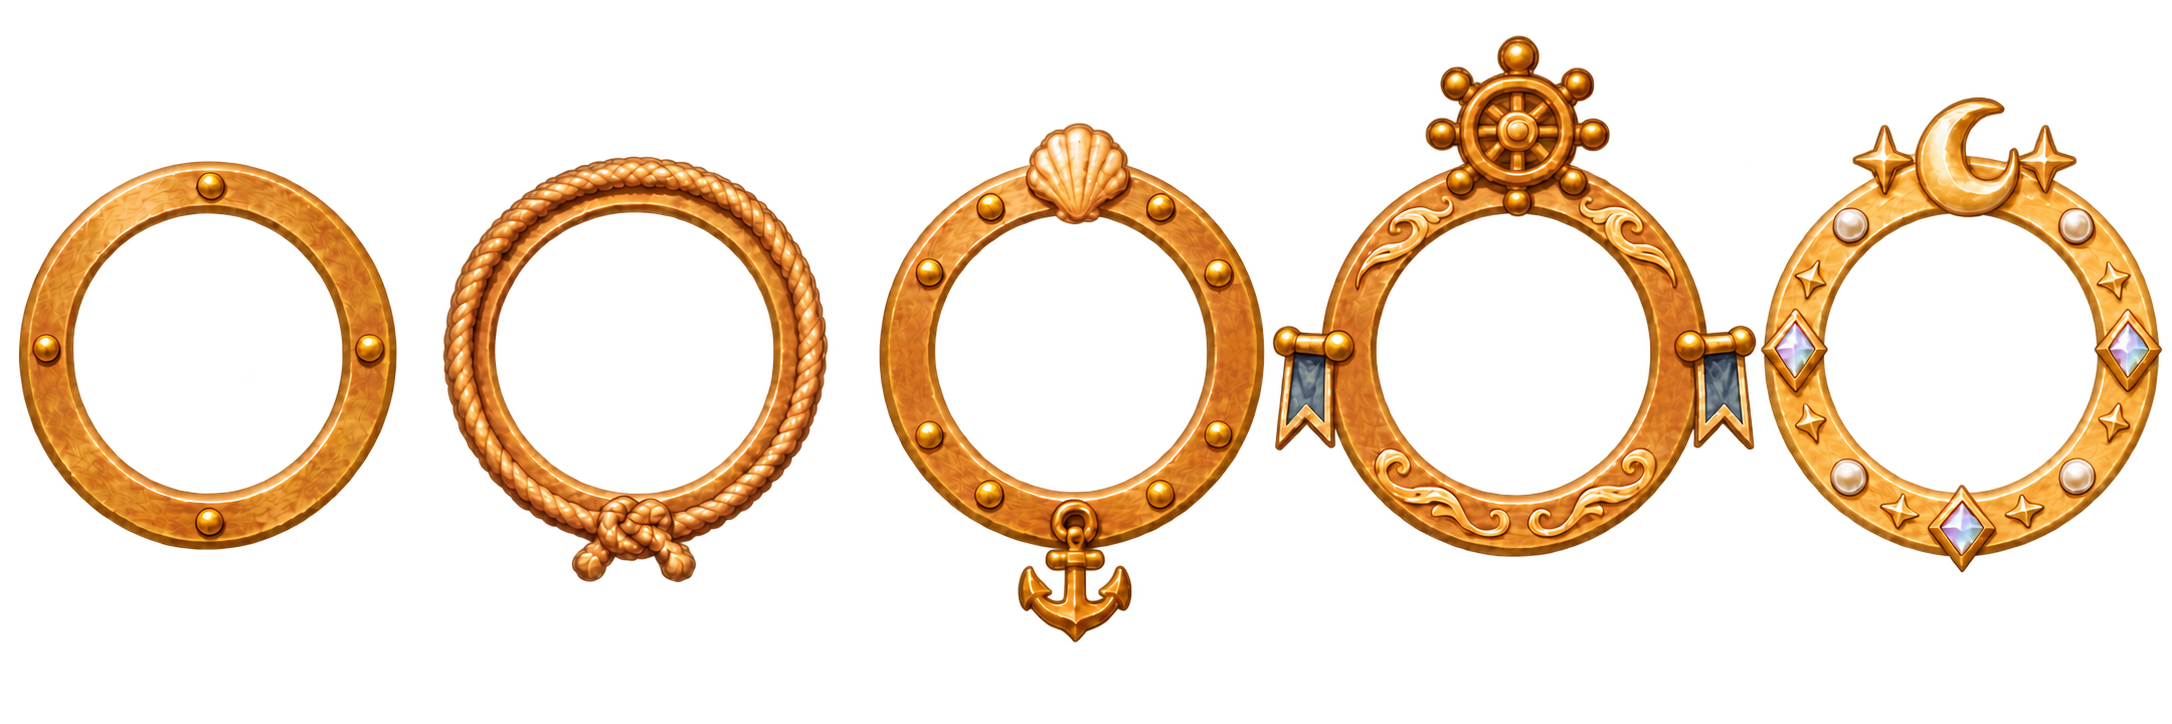
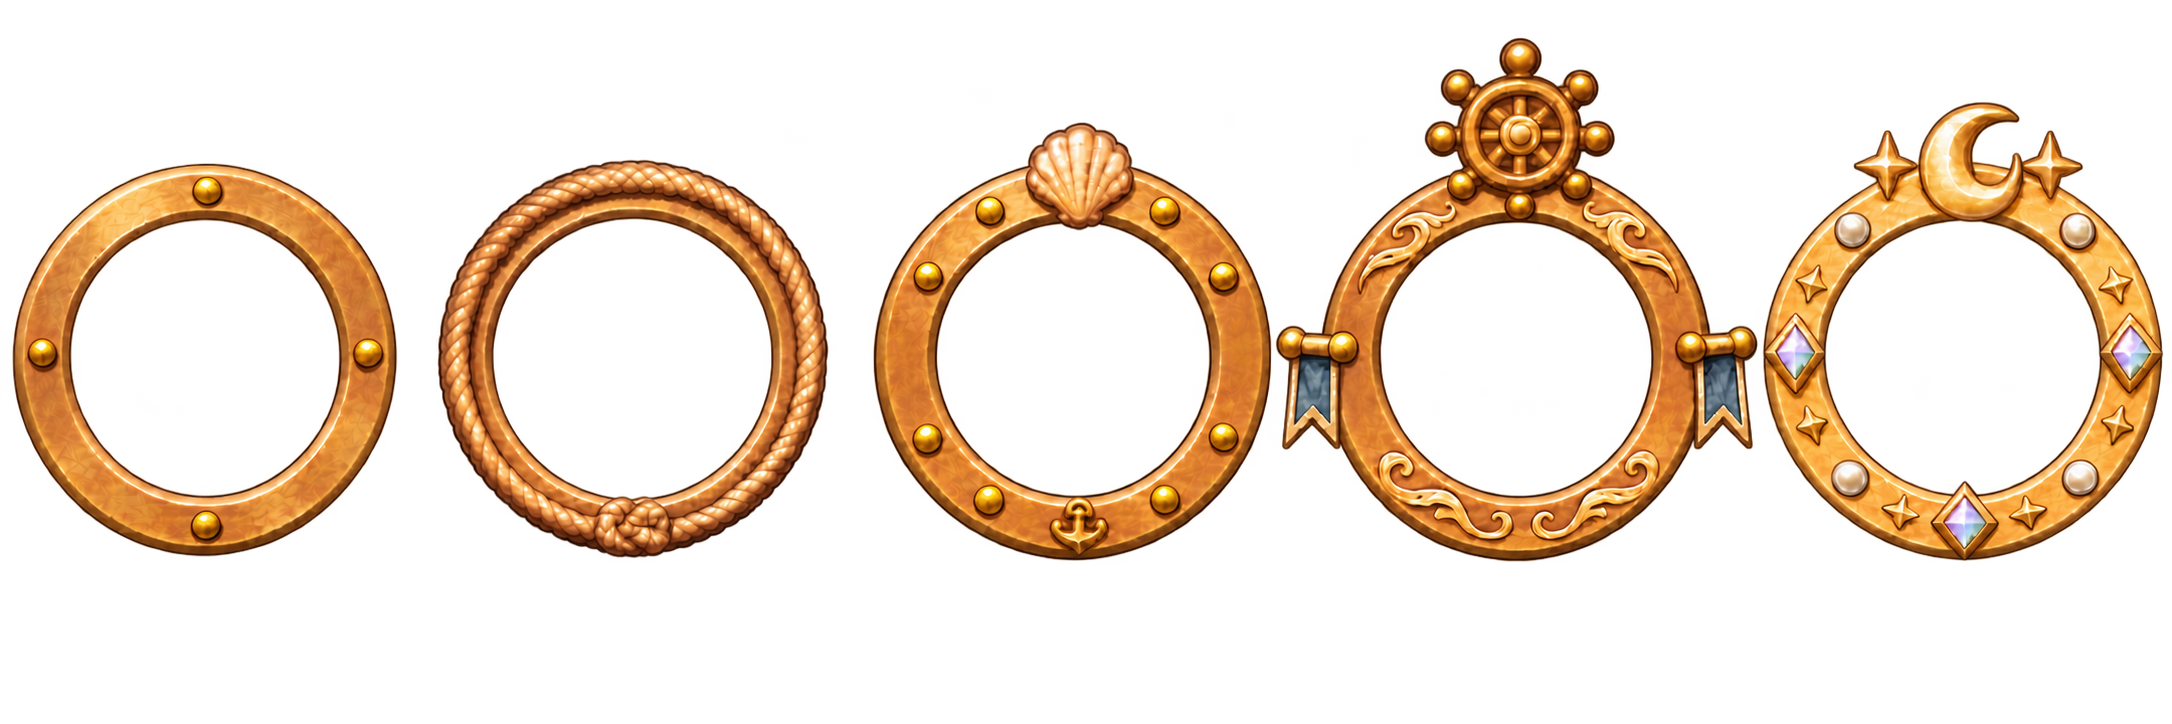
창 테두리 새 그림 적용(장식이 고리 안에) · 판의 둥근 창을 다시 재서 테두리와 상징을 정확히 맞춤
Claude-Session: https://claude.ai/code/session_0142yqQtSepe3ngremP8BMYq

Changed region(s): [[0.0, 0.0304, 1.0, 0.8812]]

diff --git a/src/harbor.js b/src/harbor.js
@@ -289,10 +289,10 @@ export function drawPanel(ctx, g) {
   label(ctx, p.id === 'skills' ? '어부의 기술' : HOUSE_NAME[p.id], PANEL.x + PANEL.w / 2 + 10 * PS, PANEL.y + 10 * PS + rh * 0.42, 12.5, COLORS.navy, 'center', 600, null);
   const c = closeRect(); img(ctx, 'h_close', c.x, c.y, c.w, c.h);
   // 판 왼쪽 위 둥근 창: 그 가게의 상징 (그림이 없으면 건물). 마을이 커지면 창 테두리 장식만 달라진다
-  const look = TOWN_LOOK[g.eco.town], rx = PANEL.x + PANEL.w * 0.1518, ry = PANEL.y + ph * 0.1573, rr = PANEL.w * 0.0823;      // 판 그림의 둥근 창 자리 (그림에서 잰 값)
+  const look = TOWN_LOOK[g.eco.town], rx = PANEL.x + PANEL.w * 0.1503, ry = PANEL.y + ph * 0.1547, rr = PANEL.w * 0.0909;      // 판 그림의 둥근 창: 구멍의 가운데와 반지름 (그림의 구멍 가장자리에 원을 맞춰 잰 값)
   const mark = hasSprite('h_mark_' + shopId), hs = sprite(mark ? 'h_mark_' + shopId : `h_shop_${look}_${shopId}`);
   ctx.save(); ctx.beginPath(); ctx.arc(rx, ry, rr, 0, Math.PI * 2); ctx.clip();
-  { const fit = rr * (mark ? 1.5 : 1.7), k = Math.min(fit / hs.w, fit / hs.h); ctx.drawImage(hs.img, rx - hs.w * k / 2, ry - hs.h * k / 2 + (mark ? 0 : rr * 0.04), hs.w * k, hs.h * k); }      // 창 한가운데에 통째로 들어온다
+  { const fit = rr * (mark ? 1.38 : 1.55), k = Math.min(fit / hs.w, fit / hs.h); ctx.drawImage(hs.img, rx - hs.w * k / 2, ry - hs.h * k / 2 + (mark ? 0 : rr * 0.04), hs.w * k, hs.h * k); }      // 창 한가운데에 통째로 들어온다
   ctx.restore();
   rowsOf(g, p.id).forEach(([kind, id], i) => {
     const r = rowRect(i), info = rowInfo(g, kind, id), can = !info.block && g.gold >= info.cost;
@@ -313,8 +313,8 @@ export function drawPanel(ctx, g) {
     ctx.restore();
   });
   if (hasSprite('h_rim_' + look)) {                          // 테두리: 그림의 구멍을 판의 창에 맞춰 얹는다. 아래로 늘어진 장식이 가려지지 않게 줄보다 나중에 그린다
-    const rim = sprite('h_rim_' + look), [hx, hy, hr] = rim.hole, dw = rr * 1.03 / hr;
-    ctx.drawImage(rim.img, rx - hx * dw, ry - hy * dw, dw, dw * rim.h / rim.w);
+    const rim = sprite('h_rim_' + look), [hx, hy, hr] = rim.hole, dw = rr * 1.017 / hr;      // 판에 그려진 원래 테두리가 밖으로 비어져 나오지 않도록 조금 크게, 조금 위로 (원래 테두리는 위쪽이 더 두껍다)
+    ctx.drawImage(rim.img, rx + PANEL.w * 0.0005 - hx * dw, ry - PANEL.w * 0.0015 - hy * dw, dw, dw * rim.h / rim.w);
   }
   // 둥근 창 오른쪽 빈자리: 주인의 한마디 (길드는 판 아래 바깥에 누르고 있기 안내)
   { const hold = p.id === 'skills' || p.id === 'guild';

diff --git a/ASSET_QUEUE.md b/ASSET_QUEUE.md
@@ -397,4 +397,4 @@
 | 375 | `ui_emblem` | 제목 엠블럼: H 두 개와 낚싯대가 어우러진 문장 (글자 없음, 앱 아이콘 겸용) | DONE | 통과 |
 | 376 | `ui_logo` | 제목 로고: 엠블럼 + "Hori's Horizon" + "호라이의 수평선" | DONE | 통과. 영문·한글 철자 모두 맞다 |
 | 377 | `h_shop_marks` | 가게 판 둥근 창: 가게 상징 6개 (저울과 생선·엇갈린 낚싯대·닻과 망치·실패와 목도리·길드 문장·종) | DONE | 통과 |
-| 378 | `h_port_rims` | 가게 판 둥근 창: 마을 등급별 테두리 5단계 (가운데는 뚫린 고리) | **REDO** | Redo for frame 3 only (the other four are already accepted; draw them again the same way). Frame 3: NOTHING may hang below the ring. Do not draw a dangling anchor charm. Instead put a small anchor emblem flat ON the bottom of the ring itself, inside the ring's width. For all five frames: no decoration may extend below the bottom edge of the ring. |
+| 378 | `h_port_rims` | 가게 판 둥근 창: 마을 등급별 테두리 5단계 (가운데는 뚫린 고리) | DONE | 통과. 다시 그린 것은 장식이 고리 아래로 내려오지 않는다. 다섯 개 모두 새 그림을 쓴다 |
